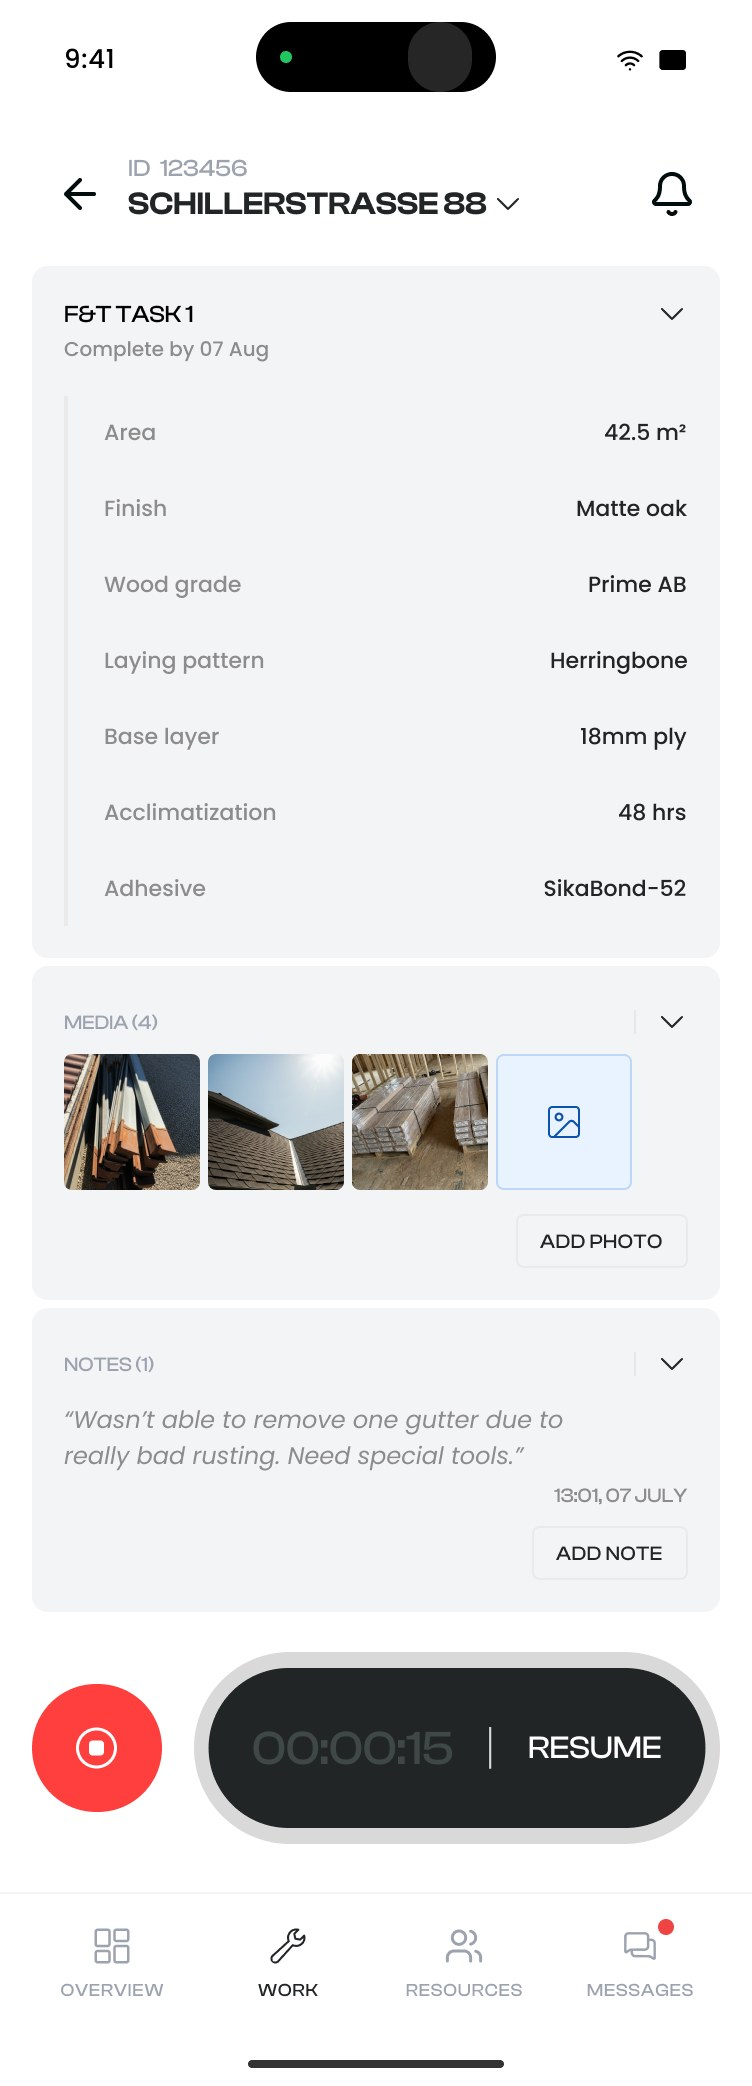
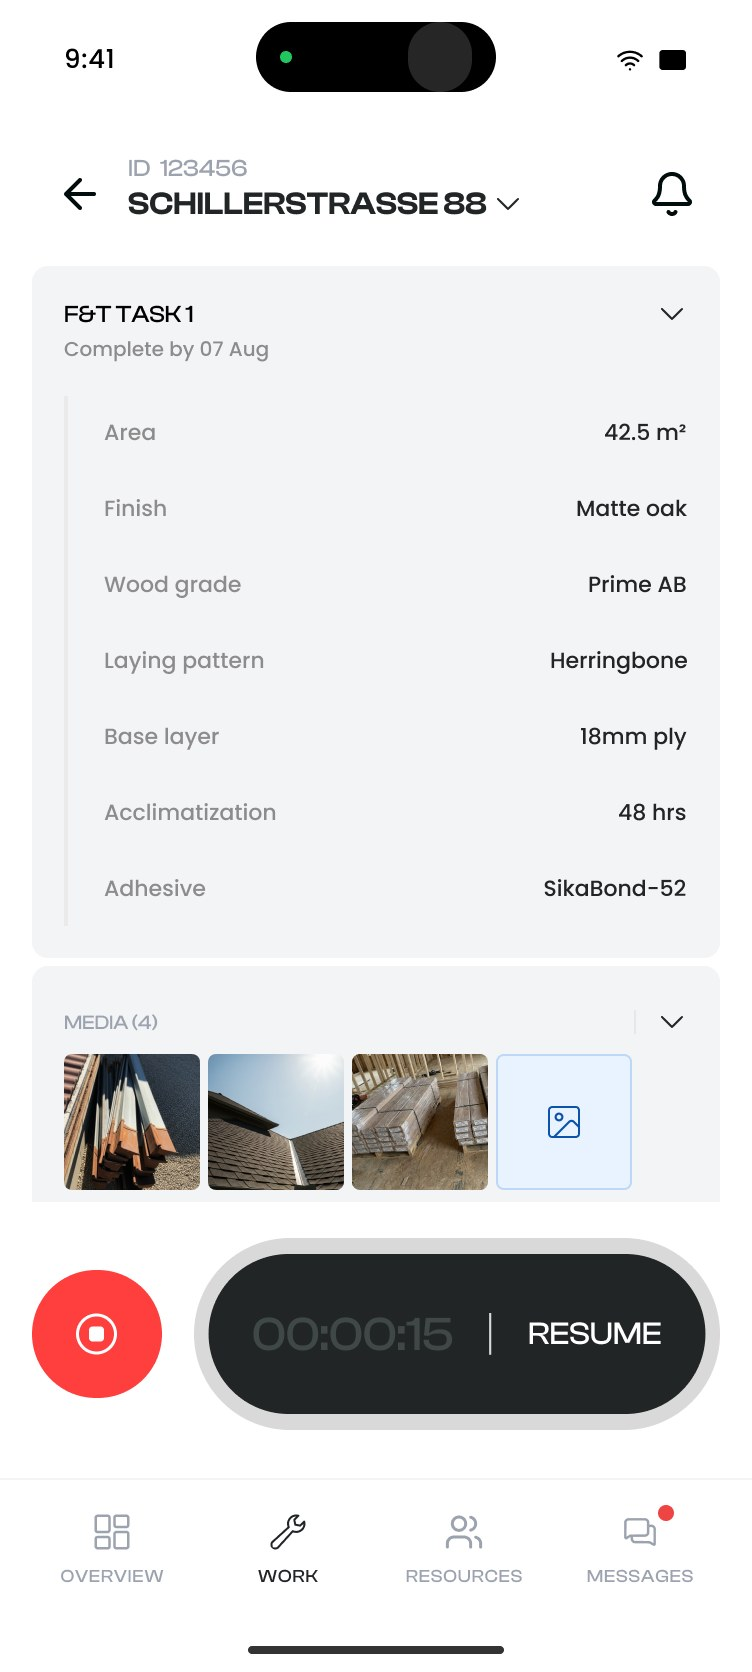
Buildlr mobile: Specs and Task detail trimmed to the Working screen's height, header, timer and nav kept fixed
Claude-Session: https://claude.ai/code/session_01MkzssbiWjDzMdy79T6ptKv

diff --git a/public/de/buildlr.html b/public/de/buildlr.html
@@ -727,8 +727,8 @@
 <p class="big-p">Die Field-App zeigt dasselbe Angebot, zugeschnitten auf die jeweilige Crew.</p>
 <p>Räume wurden zu Filter-Chips am oberen Rand. Kategorien wurden zu Akkordeons. Jede Aufgabe ist eine Karte, Parameter sind Zeilen aus Label und Wert, und Unteraufgaben sitzen eine Ebene eingerückt, genau wie am Desktop. So übersteht die Hierarchie den Wechsel. Alles, was noch auf den Kunden wartet, ist in der Karte rot markiert, denn das sollte niemand erst auf der Leiter erfahren. Sobald eine Aufgabe läuft, klappt alles auf drei Überschriften und einen Timer zusammen.</p>
 <div class="phones flat">
-<figure><img alt="Mobiler Specs-Tab mit Raum-Chips, einem Akkordeon für Boden- und Fliesenarbeiten und einer Aufgabenkarte mit Parametern" height="2086" loading="lazy" src="../assets/bl-m-specs.jpg" width="752"/><figcaption><b>Specs</b>Räume als Chips, Aufgaben als Karten.</figcaption></figure>
-<figure><img alt="Aufgabendetails mit Parametern, vier Fotos von der Baustelle und einer Notiz aus dem Team vor Ort" height="2086" loading="lazy" src="../assets/bl-m-media.jpg" width="752"/><figcaption><b>Aufgabendetails</b>Fotos und Notizen von der Baustelle.</figcaption></figure>
+<figure><img alt="Mobiler Specs-Tab mit Raum-Chips, einem Akkordeon für Boden- und Fliesenarbeiten und einer Aufgabenkarte mit Parametern" height="1672" loading="lazy" src="../assets/bl-m-specs.jpg" width="752"/><figcaption><b>Specs</b>Räume als Chips, Aufgaben als Karten.</figcaption></figure>
+<figure><img alt="Aufgabendetails mit Parametern, vier Fotos von der Baustelle und einer Notiz aus dem Team vor Ort" height="1672" loading="lazy" src="../assets/bl-m-media.jpg" width="752"/><figcaption><b>Aufgabendetails</b>Fotos und Notizen von der Baustelle.</figcaption></figure>
 <figure><div class="tmr" id="blTimer"><img alt="Die Aufgabe, zusammengeklappt auf drei Überschriften, mit laufendem Timer und Pause-Button" height="1672" loading="lazy" src="../assets/bl-m-timer.jpg" width="752"/><div class="tm-st" translate="no"><svg aria-hidden="true" viewbox="0 0 752 1672"><rect class="tm-base" height="178" pathlength="1000" rx="89" width="512" x="201" y="1245"></rect><rect class="tm-run" height="178" pathlength="1000" rx="89" width="512" x="201" y="1245"></rect></svg><span aria-hidden="true" class="tm-pulse"></span><span aria-hidden="true" class="tm-cover" style="left:256px;top:1294px;width:232px;height:80px"></span><b aria-hidden="true" class="tm-t">00:00:00</b></div></div><figcaption><b>In Arbeit</b>Drei Überschriften und ein Timer.</figcaption></figure>
 </div>
 </div>

diff --git a/public/ko/buildlr.html b/public/ko/buildlr.html
@@ -728,8 +728,8 @@
 <p class="big-p">현장 앱은 같은 견적을 시공 기사 한 명 기준으로 보여줘요.</p>
 <p>공간은 상단의 필터 칩이 되고, 카테고리는 아코디언이 됐어요. 작업은 카드로, 파라미터는 라벨과 값으로 된 행으로, 하위 작업은 데스크톱처럼 한 칸 들여써서 계층 구조가 그대로 살아 있어요. 아직 클라이언트 답을 기다리는 항목은 카드 안에 빨간색으로 표시돼요. 사다리 위에서 그걸 알게 되면 곤란하니까요. 작업이 시작되면 모든 게 헤더 세 개와 타이머로 접혀요.</p>
 <div class="phones flat">
-<figure><img alt="공간 칩, Flooring and tiling 아코디언, 파라미터가 있는 작업 카드가 보이는 모바일 사양 탭" height="2086" loading="lazy" src="../assets/bl-m-specs.jpg" width="752"/><figcaption><b>사양</b>공간은 칩으로, 작업은 카드로.</figcaption></figure>
-<figure><img alt="파라미터, 현장 사진 4장, 작업자 메모가 있는 작업 상세" height="2086" loading="lazy" src="../assets/bl-m-media.jpg" width="752"/><figcaption><b>작업 상세</b>현장 사진과 메모.</figcaption></figure>
+<figure><img alt="공간 칩, Flooring and tiling 아코디언, 파라미터가 있는 작업 카드가 보이는 모바일 사양 탭" height="1672" loading="lazy" src="../assets/bl-m-specs.jpg" width="752"/><figcaption><b>사양</b>공간은 칩으로, 작업은 카드로.</figcaption></figure>
+<figure><img alt="파라미터, 현장 사진 4장, 작업자 메모가 있는 작업 상세" height="1672" loading="lazy" src="../assets/bl-m-media.jpg" width="752"/><figcaption><b>작업 상세</b>현장 사진과 메모.</figcaption></figure>
 <figure><div class="tmr" id="blTimer"><img alt="실행 중인 타이머와 일시정지 버튼, 헤더 세 개로 접힌 작업" height="1672" loading="lazy" src="../assets/bl-m-timer.jpg" width="752"/><div class="tm-st" translate="no"><svg aria-hidden="true" viewbox="0 0 752 1672"><rect class="tm-base" height="178" pathlength="1000" rx="89" width="512" x="201" y="1245"></rect><rect class="tm-run" height="178" pathlength="1000" rx="89" width="512" x="201" y="1245"></rect></svg><span aria-hidden="true" class="tm-pulse"></span><span aria-hidden="true" class="tm-cover" style="left:256px;top:1294px;width:232px;height:80px"></span><b aria-hidden="true" class="tm-t">00:00:00</b></div></div><figcaption><b>작업 중</b>헤더 세 개와 타이머.</figcaption></figure>
 </div>
 </div>

diff --git a/public/zh-hant/buildlr.html b/public/zh-hant/buildlr.html
@@ -728,8 +728,8 @@
 <p class="big-p">同一份報價，一次服務一位師傅。</p>
 <p>房間變成頂部的篩選標籤，類別變成摺疊選單。每個任務是一張卡片，參數以「標籤與數值」的列呈現，子任務則縮排一層，和桌面版一樣，讓層級結構完整保留下來。還在等客戶回覆的項目，會在卡片裡用紅色標出，畢竟沒有人應該站在梯子上才發現這件事。任務開始進行後，一切都會收合成三個標題和一個計時器。</p>
 <div class="phones flat">
-<figure><img alt="行動版規格分頁，包含房間標籤、「Flooring and tiling」摺疊選單，以及附參數的任務卡片" height="2086" loading="lazy" src="../assets/bl-m-specs.jpg" width="752"/><figcaption><b>規格</b>房間是標籤，任務是卡片。</figcaption></figure>
-<figure><img alt="任務詳情，包含參數、四張現場照片，以及工人留下的筆記" height="2086" loading="lazy" src="../assets/bl-m-media.jpg" width="752"/><figcaption><b>任務詳情</b>來自現場的照片與筆記。</figcaption></figure>
+<figure><img alt="行動版規格分頁，包含房間標籤、「Flooring and tiling」摺疊選單，以及附參數的任務卡片" height="1672" loading="lazy" src="../assets/bl-m-specs.jpg" width="752"/><figcaption><b>規格</b>房間是標籤，任務是卡片。</figcaption></figure>
+<figure><img alt="任務詳情，包含參數、四張現場照片，以及工人留下的筆記" height="1672" loading="lazy" src="../assets/bl-m-media.jpg" width="752"/><figcaption><b>任務詳情</b>來自現場的照片與筆記。</figcaption></figure>
 <figure><div class="tmr" id="blTimer"><img alt="收合成三個標題的任務，附運作中的計時器與暫停按鈕" height="1672" loading="lazy" src="../assets/bl-m-timer.jpg" width="752"/><div class="tm-st" translate="no"><svg aria-hidden="true" viewbox="0 0 752 1672"><rect class="tm-base" height="178" pathlength="1000" rx="89" width="512" x="201" y="1245"></rect><rect class="tm-run" height="178" pathlength="1000" rx="89" width="512" x="201" y="1245"></rect></svg><span aria-hidden="true" class="tm-pulse"></span><span aria-hidden="true" class="tm-cover" style="left:256px;top:1294px;width:232px;height:80px"></span><b aria-hidden="true" class="tm-t">00:00:00</b></div></div><figcaption><b>進行中</b>三個標題，一個計時器。</figcaption></figure>
 </div>
 </div>

diff --git a/public/zh-hans/buildlr.html b/public/zh-hans/buildlr.html
@@ -728,8 +728,8 @@
 <p class="big-p">同一份报价，一次只服务一位施工人员。</p>
 <p>房间变成顶部的筛选标签，类别变成折叠面板。每个任务是一张卡片，参数是“标签与数值”的行，子任务和桌面端一样缩进一级，层级关系换了端依然完整。所有还在等客户确认的内容，都会在卡片里标红，毕竟谁也不该站在梯子上才发现这件事。任务一旦开始，一切都会收起，只剩三个标题和一个计时器。</p>
 <div class="phones flat">
-<figure><img alt="移动端规格页，包含房间标签、“地板与瓷砖”折叠面板和带参数的任务卡片" height="2086" loading="lazy" src="../assets/bl-m-specs.jpg" width="752"/><figcaption><b>规格</b>房间做成标签，任务做成卡片。</figcaption></figure>
-<figure><img alt="任务详情，包含参数、四张现场照片和工人的备注" height="2086" loading="lazy" src="../assets/bl-m-media.jpg" width="752"/><figcaption><b>任务详情</b>来自现场的照片和备注。</figcaption></figure>
+<figure><img alt="移动端规格页，包含房间标签、“地板与瓷砖”折叠面板和带参数的任务卡片" height="1672" loading="lazy" src="../assets/bl-m-specs.jpg" width="752"/><figcaption><b>规格</b>房间做成标签，任务做成卡片。</figcaption></figure>
+<figure><img alt="任务详情，包含参数、四张现场照片和工人的备注" height="1672" loading="lazy" src="../assets/bl-m-media.jpg" width="752"/><figcaption><b>任务详情</b>来自现场的照片和备注。</figcaption></figure>
 <figure><div class="tmr" id="blTimer"><img alt="收起后的任务，只剩三个标题、一个正在计时的计时器和暂停按钮" height="1672" loading="lazy" src="../assets/bl-m-timer.jpg" width="752"/><div class="tm-st" translate="no"><svg aria-hidden="true" viewbox="0 0 752 1672"><rect class="tm-base" height="178" pathlength="1000" rx="89" width="512" x="201" y="1245"></rect><rect class="tm-run" height="178" pathlength="1000" rx="89" width="512" x="201" y="1245"></rect></svg><span aria-hidden="true" class="tm-pulse"></span><span aria-hidden="true" class="tm-cover" style="left:256px;top:1294px;width:232px;height:80px"></span><b aria-hidden="true" class="tm-t">00:00:00</b></div></div><figcaption><b>进行中</b>三个标题，一个计时器。</figcaption></figure>
 </div>
 </div>

diff --git a/public/buildlr.html b/public/buildlr.html
@@ -743,8 +743,8 @@
       <p class="big-p">The field app reads the same quote, one contractor at a time.</p>
       <p>Rooms became filter chips along the top. Categories became accordions. Each task is a card, parameters are label and value rows, and sub-tasks sit one indent in, just like on desktop, so the hierarchy survives the move. Anything still waiting on the client is flagged in red inside the card, because nobody should find that out on a ladder. Once a task is running, everything collapses to three headers and a timer.</p>
       <div class="phones flat">
-        <figure><img src="assets/bl-m-specs.jpg" alt="Mobile specs tab with room chips, a Flooring and tiling accordion and a task card with parameters" width="752" height="2086" loading="lazy"><figcaption><b>Specs</b>Rooms as chips, tasks as cards.</figcaption></figure>
-        <figure><img src="assets/bl-m-media.jpg" alt="Task detail with parameters, four site photos and a note from the worker" width="752" height="2086" loading="lazy"><figcaption><b>Task detail</b>Photos and notes from site.</figcaption></figure>
+        <figure><img src="assets/bl-m-specs.jpg" alt="Mobile specs tab with room chips, a Flooring and tiling accordion and a task card with parameters" width="752" height="1672" loading="lazy"><figcaption><b>Specs</b>Rooms as chips, tasks as cards.</figcaption></figure>
+        <figure><img src="assets/bl-m-media.jpg" alt="Task detail with parameters, four site photos and a note from the worker" width="752" height="1672" loading="lazy"><figcaption><b>Task detail</b>Photos and notes from site.</figcaption></figure>
         <figure><div class="tmr" id="blTimer"><img src="assets/bl-m-timer.jpg" alt="The task collapsed to three headers with a running timer and a pause button" width="752" height="1672" loading="lazy"><div class="tm-st" translate="no"><svg viewBox="0 0 752 1672" aria-hidden="true"><rect class="tm-base" x="201" y="1245" width="512" height="178" rx="89" pathLength="1000"/><rect class="tm-run" x="201" y="1245" width="512" height="178" rx="89" pathLength="1000"/></svg><span class="tm-pulse" aria-hidden="true"></span><span class="tm-cover" style="left:256px;top:1294px;width:232px;height:80px" aria-hidden="true"></span><b class="tm-t" aria-hidden="true">00:00:00</b></div></div><figcaption><b>Working</b>Three headers and a timer.</figcaption></figure>
       </div>
     </div>
